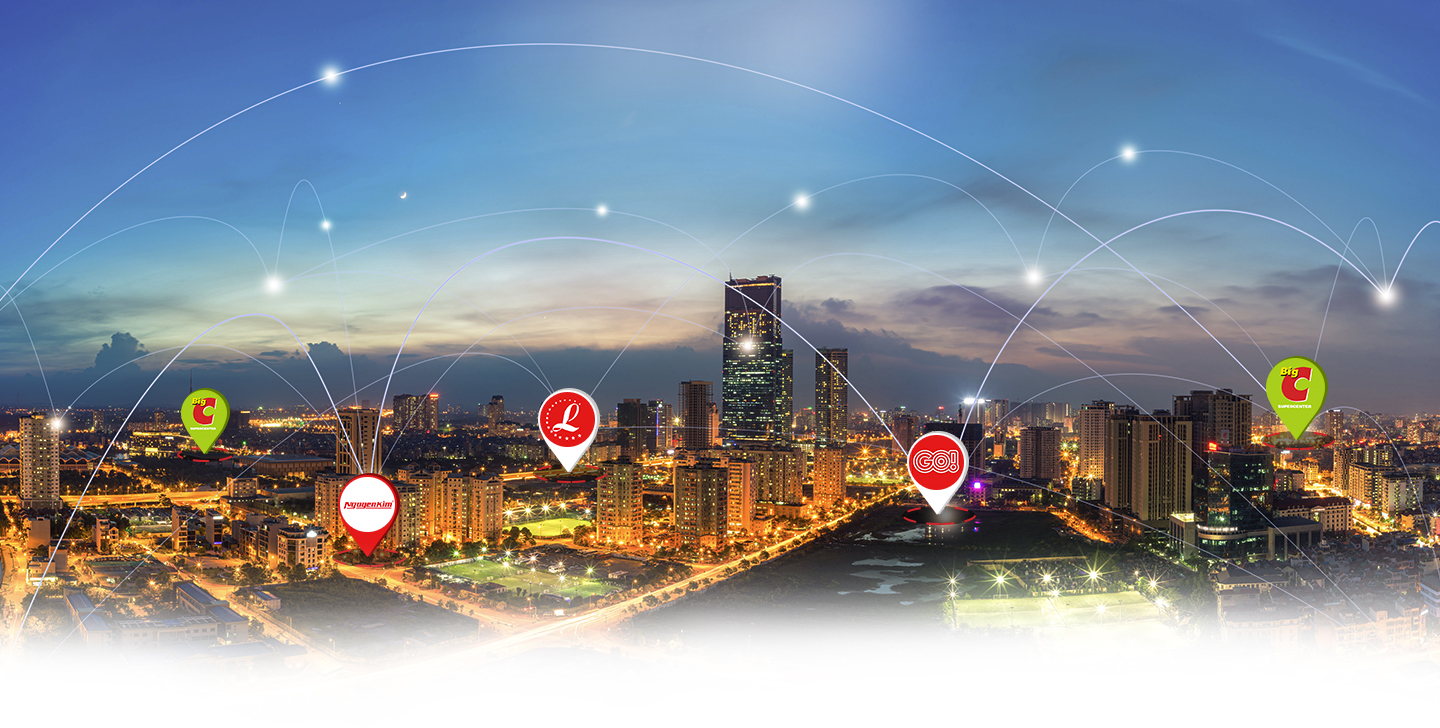
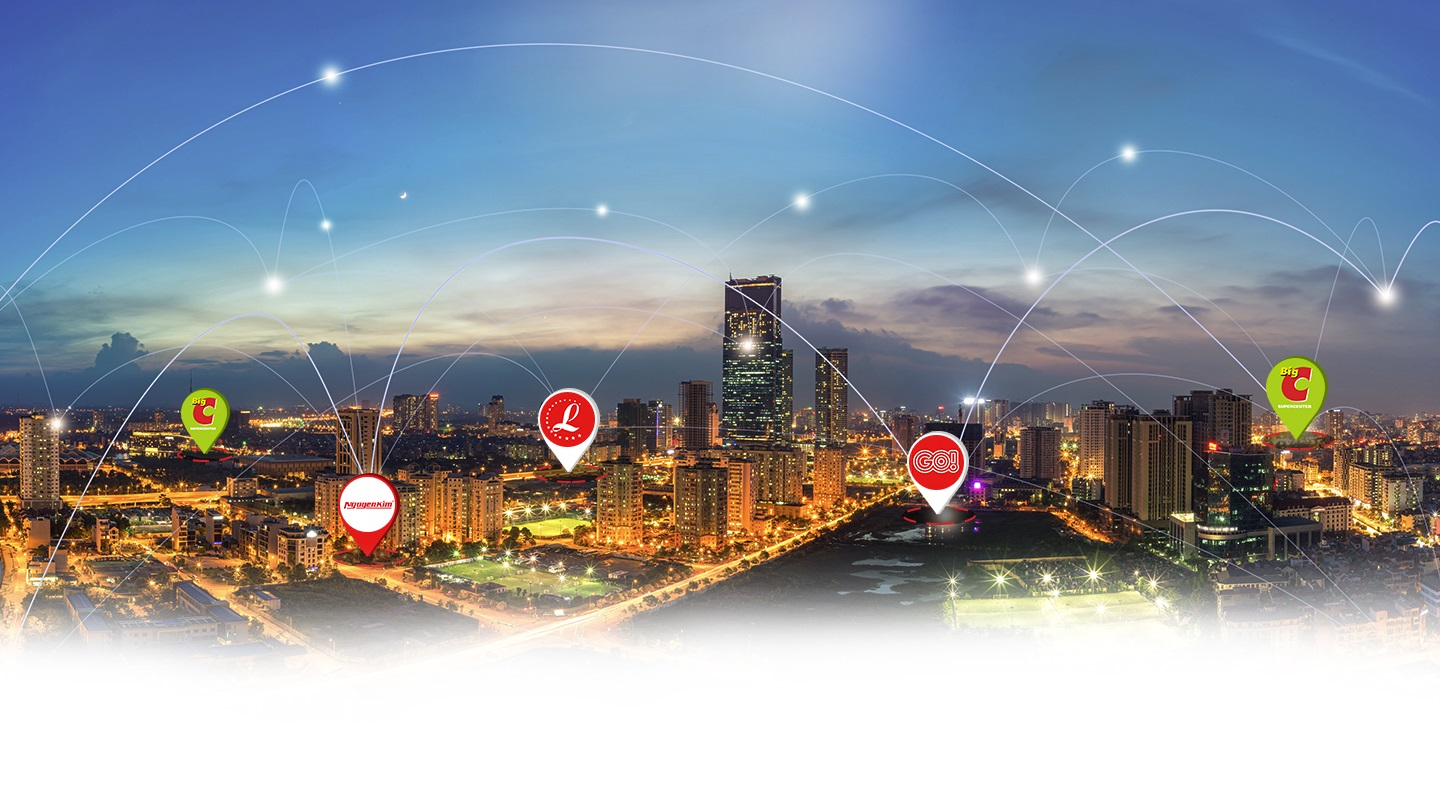
Revert "chinh ảnh"
This reverts commit 0fd47b22af2b7b63e4f7384addb458c8e34ef66c.

# Conflicts:
#	index.html

diff --git a/css/styles.min.css b/css/styles.min.css
@@ -1,2 +1,6 @@
+<<<<<<< HEAD
 @font-face{font-family:'Futura Std LightOblique';src:url("../fonts/FuturaStd/FuturaStd-LightOblique.woff2") format("woff2"),url("../fonts/FuturaStd/FuturaStd-LightOblique.woff") format("woff")}@font-face{font-family:'Futura Std Light';src:url("../fonts/FuturaStd/FuturaStd-Light.woff2") format("woff2"),url("../fonts/FuturaStd/FuturaStd-Light.woff") format("woff")}@font-face{font-family:'Futura Std Bold';src:url("../fonts/FuturaStd/FuturaStd-Bold.woff2") format("woff2"),url("../fonts/FuturaStd/FuturaStd-Bold.woff") format("woff")}@font-face{font-family:'Futura Std BoldCondensed';src:url("../fonts/FuturaStd/FuturaStd-BoldCondensed.woff2") format("woff2"),url("../fonts/FuturaStd/FuturaStd-BoldCondensed.woff") format("woff")}@font-face{font-family:'Futura Std Book';src:url("../fonts/FuturaStd/FuturaStd-BookOblique.woff2") format("woff2"),url("../fonts/FuturaStd/FuturaStd-BookOblique.woff") format("woff");font-weight:normal;font-style:italic}@font-face{font-family:'Futura Std ExtraBold';src:url("../fonts/FuturaStd/FuturaStd-ExtraBold.woff2") format("woff2"),url("../fonts/FuturaStd/FuturaStd-ExtraBold.woff") format("woff")}@font-face{font-family:'Futura Std BoldOblique';src:url("../fonts/FuturaStd/FuturaStd-BoldOblique.woff2") format("woff2"),url("../fonts/FuturaStd/FuturaStd-BoldOblique.woff") format("woff")}@font-face{font-family:'Futura Std Book';src:url("../fonts/FuturaStd/FuturaStd-Book.woff2") format("woff2"),url("../fonts/FuturaStd/FuturaStd-Book.woff") format("woff")}html{font-size:62.5%}*,*:before,*:after{margin:0;padding:0;outline:0;box-sizing:border-box;-moz-box-sizing:border-box;-webkit-box-sizing:border-box}body{font-size:1.6rem;font-family:'Futura Std Book';font-weight:normal}@media (min-width: 1200px){.container{max-width:1170px;padding-left:0;padding-right:0}}h1,h2,h3,h4,h5,h6,p,ul,li,dl,dt,dd,table,tr,td,figure,figcaption,label{padding:0;margin:0}h1,h2,h3,h4,h5,h6{line-height:1;font-size:inherit;font-weight:inherit}a{text-decoration:none;-webkit-transition:all 0.3s ease;transition:all 0.3s ease}a:hover{text-decoration:none}button{cursor:pointer}button:focus{outline:0}ul{list-style:none}.py-20{padding-top:2rem;padding-bottom:2rem}.apply_fixed{position:fixed;bottom:10%;right:2rem;z-index:9999}.banner{position:relative;text-align:center}.banner .banner__image{position:relative}.banner .banner__image:before{content:'';display:block;padding-top:100vh}.banner .banner__image img{position:absolute;top:0;left:0;width:100%;height:100%;-o-object-fit:cover;object-fit:cover}.banner .banner__image .demo{position:absolute;top:10px;left:20px;max-width:7rem;height:auto}.banner .banner__text{color:#fff;padding:0;border:2px solid #8c8e94;position:absolute;top:50%;left:50%;-webkit-transform:translate(-50%, -50%);transform:translate(-50%, -50%)}.banner__text .banner__title{font-size:5rem;font-family:'Futura Std ExtraBold';text-transform:uppercase}.banner__text .banner__description{font-size:2.4rem;line-height:1;margin-top:1.2rem;font-family:'Futura Std Book'}.logo{position:absolute;top:0;left:54%;-webkit-transform:translateX(-50%);transform:translateX(-50%)}.logo .logo__image{display:inline-block}.logo .logo__image img{max-width:27rem;height:auto}.conduct__intro{font-size:1.8rem;font-family:'Futura Std Bold';text-transform:uppercase;color:#fff}.conduct__item{padding:0 1.5rem}.conduct__item .conduct__image{position:relative;overflow:hidden}.conduct__item .conduct__image:before{content:'';display:block;padding-top:63.93%}.conduct__item .conduct__image .link{position:absolute;top:0;left:0;right:0;bottom:0}.conduct__item .conduct__image img{position:absolute;top:0;left:0;width:100%;height:100%;-o-object-fit:cover;object-fit:cover;border-radius:7px;-webkit-transform:scale(1);transform:scale(1);-webkit-transition:all 0.3s ease;transition:all 0.3s ease}.conduct__item .conduct__image:hover img{-webkit-transform:scale(1.1);transform:scale(1.1)}.conduct__item .conduct__link{font-size:1.8rem;font-family:'Futura Std Bold';text-transform:uppercase;color:#020202;-webkit-transition:all 0.3s ease;transition:all 0.3s ease}.conduct__item .conduct__link:hover{color:#f52430}.conduct__slider .slick-arrow{position:absolute;top:50%;-webkit-transform:translateY(-50%);transform:translateY(-50%);cursor:pointer}.conduct__slider .slick-arrow .icon{font-size:4rem;color:#f52430}.conduct__slider .slick-arrow.prev{left:-3rem}.conduct__slider .slick-arrow.next{right:-3rem}.conduct__comp{position:absolute;left:0;right:0;bottom:0;-webkit-transform:translateY(50%);transform:translateY(50%)}.faq__session{padding:20rem 0 10rem 0}.faq__session span.title{border-radius:25px;color:#f52430;padding:1rem 6rem;border:1px solid #f52430;font-family:"Futura Std Book";font-size:18px}.faq__title{font-family:"Futura Std Bold";text-transform:uppercase;font-size:3.6rem;padding:2rem 0}.faq__item{padding:2rem 12rem 2rem 4rem;border:2px solid #eee;border-radius:25px;margin:1rem 0;position:relative;-webkit-transition:all 0.3s ease;transition:all 0.3s ease}.faq__item:before{content:'';position:absolute;top:0;left:0;bottom:0;width:0;background-color:transparent;border-radius:25px;-webkit-transition:all 0.5s ease;transition:all 0.5s ease;z-index:-1}.faq__item .icon{font-size:2rem;display:inline-block;position:absolute;top:50%;-webkit-transform:translateY(-50%);transform:translateY(-50%);right:1rem}.faq__item:hover{color:#fff !important;border-color:#fff}.faq__item:hover:before{width:100%;background-color:#f52430}.faq__item p{font-family:"Futura Std Book";font-size:1.6rem}.discover__session{background:url("../img/discover/discover-background.jpg") center top;position:relative}.discover__session::after{content:'';position:absolute;height:10rem;width:3px;top:-5rem;z-index:9999;background:#f52430;left:50%;-webkit-transform:translateX(-50%);transform:translateX(-50%)}.discover__title{font-family:"Futura Std Bold";text-transform:uppercase;font-size:3.6rem;padding:8rem 0 3rem 0}.discover__button{font-family:"Futura Std Bold";text-transform:uppercase;font-size:1.8rem;background:#f52430;padding:1rem 5rem;color:#fff;border-radius:25px;margin-bottom:8rem;-webkit-transition:all 0.3s ease;transition:all 0.3s ease}.discover__button:hover{color:#fff;background-color:#020202}footer{background:#fbf8f4;border-top:2px solid #eee}footer .footer__item{padding:2rem 0}footer .footer__item img{padding:0 0.5rem}#back-to-top{opacity:1;pointer-events:auto;cursor:pointer;-webkit-transition:all 0.3s ease;transition:all 0.3s ease}#back-to-top.hidden{opacity:0;pointer-events:none}
+=======
+@font-face{font-family:'Futura Std LightOblique';src:url("../fonts/FuturaStd/FuturaStd-LightOblique.woff2") format("woff2"),url("../fonts/FuturaStd/FuturaStd-LightOblique.woff") format("woff")}@font-face{font-family:'Futura Std Light';src:url("../fonts/FuturaStd/FuturaStd-Light.woff2") format("woff2"),url("../fonts/FuturaStd/FuturaStd-Light.woff") format("woff")}@font-face{font-family:'Futura Std Bold';src:url("../fonts/FuturaStd/FuturaStd-Bold.woff2") format("woff2"),url("../fonts/FuturaStd/FuturaStd-Bold.woff") format("woff")}@font-face{font-family:'Futura Std BoldCondensed';src:url("../fonts/FuturaStd/FuturaStd-BoldCondensed.woff2") format("woff2"),url("../fonts/FuturaStd/FuturaStd-BoldCondensed.woff") format("woff")}@font-face{font-family:'Futura Std Book';src:url("../fonts/FuturaStd/FuturaStd-BookOblique.woff2") format("woff2"),url("../fonts/FuturaStd/FuturaStd-BookOblique.woff") format("woff");font-weight:normal;font-style:italic}@font-face{font-family:'Futura Std ExtraBold';src:url("../fonts/FuturaStd/FuturaStd-ExtraBold.woff2") format("woff2"),url("../fonts/FuturaStd/FuturaStd-ExtraBold.woff") format("woff")}@font-face{font-family:'Futura Std BoldOblique';src:url("../fonts/FuturaStd/FuturaStd-BoldOblique.woff2") format("woff2"),url("../fonts/FuturaStd/FuturaStd-BoldOblique.woff") format("woff")}@font-face{font-family:'Futura Std Book';src:url("../fonts/FuturaStd/FuturaStd-Book.woff2") format("woff2"),url("../fonts/FuturaStd/FuturaStd-Book.woff") format("woff")}html{font-size:62.5%}*,*:before,*:after{margin:0;padding:0;outline:0;box-sizing:border-box;-moz-box-sizing:border-box;-webkit-box-sizing:border-box}body{font-size:1.6rem;font-family:'Futura Std Book';font-weight:normal}@media (min-width: 1200px){.container{max-width:1170px;padding-left:0;padding-right:0}}h1,h2,h3,h4,h5,h6,p,ul,li,dl,dt,dd,table,tr,td,figure,figcaption,label{padding:0;margin:0}h1,h2,h3,h4,h5,h6{line-height:1;font-size:inherit;font-weight:inherit}a{text-decoration:none;-webkit-transition:all 0.3s ease;transition:all 0.3s ease}a:hover{text-decoration:none}button{cursor:pointer}button:focus{outline:0}ul{list-style:none}.py-20{padding-top:2rem;padding-bottom:2rem}.apply_fixed{position:fixed;bottom:10%;right:2rem;z-index:9999}.banner{position:relative;text-align:center}.banner .banner__image{position:relative}.banner .banner__image:before{content:'';display:block;padding-top:100vh}.banner .banner__image img{position:absolute;top:0;left:0;width:100%;height:100%;-o-object-fit:cover;object-fit:cover}.banner .banner__text{color:#fff;padding:3.2rem 5.6rem;border:2px solid #8c8e94;position:absolute;top:50%;left:50%;-webkit-transform:translate(-50%, -50%);transform:translate(-50%, -50%)}.banner .banner__text:before{content:'';position:absolute;top:0;left:0;right:0;bottom:0;background-color:rgba(0,0,0,0.4);z-index:-1;-webkit-transform:translate(-1rem, -1rem);transform:translate(-1rem, -1rem)}.banner__text .banner__title{font-size:5.2rem;font-family:'Futura Std ExtraBold';text-transform:uppercase}.banner__text .banner__description{font-size:2.4rem;line-height:1;margin-top:1.2rem;font-family:'Futura Std Book'}.logo{position:absolute;top:0;left:50%;-webkit-transform:translateX(-50%);transform:translateX(-50%)}.logo .logo__image{display:inline-block}.logo .logo__image img{max-width:27rem;height:auto}.conduct__intro{font-size:1.8rem;font-family:'Futura Std Bold';text-transform:uppercase;color:#fff}.conduct__item{padding:0 1.5rem}.conduct__item .conduct__image{position:relative}.conduct__item .conduct__image:before{content:'';display:block;padding-top:63.93%}.conduct__item .conduct__image img{position:absolute;top:0;left:0;width:100%;height:100%;-o-object-fit:cover;object-fit:cover;border-radius:7px}.conduct__item .conduct__title{font-size:1.8rem;font-family:'Futura Std Bold';text-transform:uppercase;color:#020202}.conduct__slider .slick-arrow{position:absolute;top:50%;-webkit-transform:translateY(-50%);transform:translateY(-50%);cursor:pointer}.conduct__slider .slick-arrow .icon{font-size:4rem;color:#f52430}.conduct__slider .slick-arrow.prev{left:-3rem}.conduct__slider .slick-arrow.next{right:-3rem}.conduct__comp{position:absolute;left:0;right:0;bottom:0;-webkit-transform:translateY(50%);transform:translateY(50%)}.faq__session{padding:10rem 0 10rem 0}.faq__session span.title{border-radius:25px;color:#f52430;padding:1rem 6rem;border:1px solid #f52430;font-family:"Futura Std Book";font-size:18px}.faq__title{font-family:"Futura Std Bold";text-transform:uppercase;font-size:3.6rem;padding:2rem 0}.faq__item{padding:2rem 12rem 2rem 4rem;border:2px solid #eee;border-radius:25px;margin:1rem 0}.faq__item::after{content:url(../img/faq/arrow.png);display:block;position:absolute;top:50%;-webkit-transform:translateY(-50%);transform:translateY(-50%);right:4rem}.faq__item p{font-family:"Futura Std Book";font-size:1.6rem}.discover__session{background:url("../img/discover/discover-background.jpg") center top;position:relative}.discover__session::after{content:'';position:absolute;height:10rem;width:3px;top:-5rem;z-index:9999;background:#f52430;left:50%;-webkit-transform:translateX(-50%);transform:translateX(-50%)}.discover__title{font-family:"Futura Std Bold";text-transform:uppercase;font-size:3.6rem;padding:8rem 0 3rem 0}.discover__button{font-family:"Futura Std Bold";text-transform:uppercase;font-size:1.8rem;background:#f52430;padding:1rem 5rem;color:#fff;border-radius:25px;margin-bottom:8rem}footer{background:#fbf8f4;border-top:2px solid #eee}footer .footer__item{padding:2rem 0}footer .footer__item img{padding:0 0.5rem}
+>>>>>>> eaf54e502c99b49d07e058156ef0963918d72833
 /*# sourceMappingURL=styles.min.css.map */
